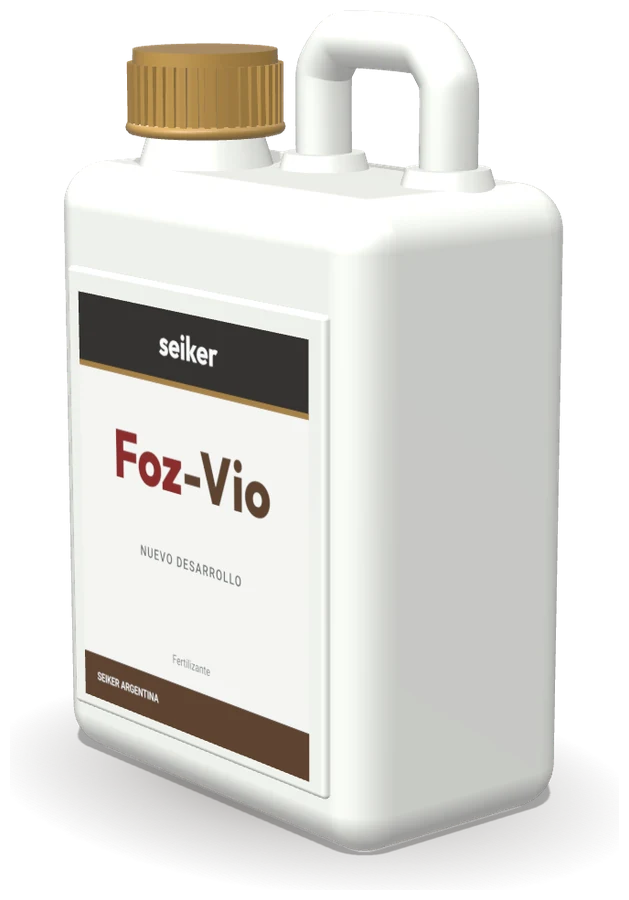
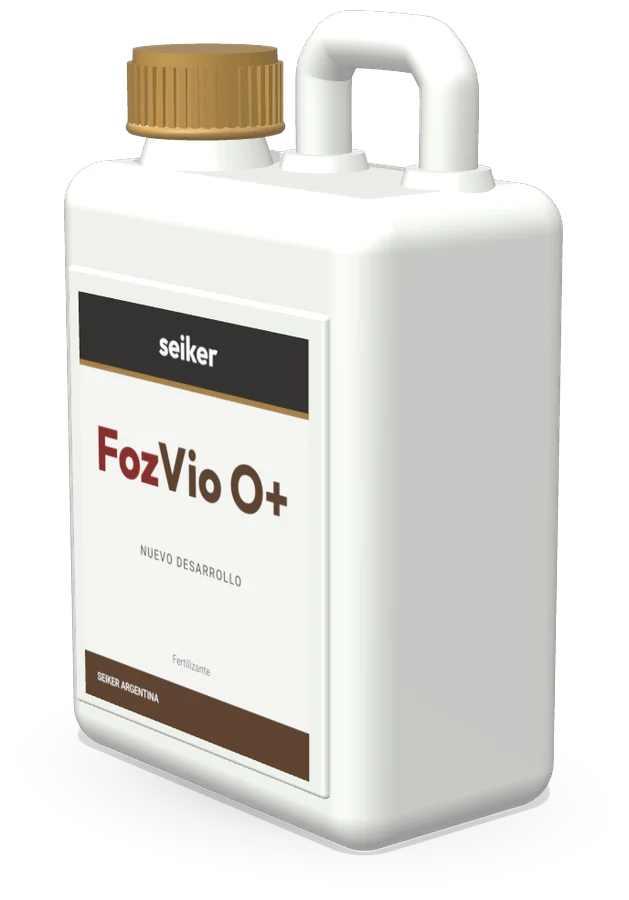
Nombres NitroVio O+ y FozVio O+ (antes Nitro-Vio y Foz-Vio)
- Catálogo, páginas, título de Fertilizantes y LEEME con los nombres nuevos.
- marca(): Nitro-Sol/Foz-Sol con guion y NitroVio O+/FozVio O+ juntos, en dos colores.
- El buscador también encuentra por id (nitro-vio, foz vio).
- Envases 3D de NitroVio O+ y FozVio O+ con la etiqueta nueva.
- Los ids y URLs (producto.html?id=nitro-vio) no cambian.

Claude-Session: https://claude.ai/code/session_01EZ6SwW7W8GjG9a1CT8ryKt

Changed region(s): [[0.1208, 0.8089, 0.876, 0.9644], [0.151, 0.4667, 0.4531, 0.5911]]

diff --git a/nueva-web/fertilizantes.html b/nueva-web/fertilizantes.html
@@ -3,7 +3,7 @@
 <head>
 <meta charset="UTF-8" />
 <meta name="viewport" content="width=device-width, initial-scale=1.0" />
-<title>Fertilizantes Nitro-Sol, Nitro-Vio, Foz-Sol y Foz-Vio | Seiker</title>
+<title>Fertilizantes Nitro-Sol, NitroVio O+, Foz-Sol y FozVio O+ | Seiker</title>
 <meta name="description" content="Fertilizantes Nitro-Sol y Foz-Sol: nitrógeno, fósforo, azufre, zinc quelado, boro y base orgánica. Mínima volatilización y disponibilidad inmediata." />
 <meta name="theme-color" content="#27221f" />
 <link rel="icon" type="image/png" href="assets/img/favicon.png" />
@@ -11,13 +11,13 @@
 <meta property="og:type" content="website" />
 <meta property="og:locale" content="es_AR" />
 <meta property="og:site_name" content="Seiker" />
-<meta property="og:title" content="Fertilizantes Nitro-Sol, Nitro-Vio, Foz-Sol y Foz-Vio | Seiker" />
+<meta property="og:title" content="Fertilizantes Nitro-Sol, NitroVio O+, Foz-Sol y FozVio O+ | Seiker" />
 <meta property="og:description" content="Fertilizantes Nitro-Sol y Foz-Sol: nitrógeno, fósforo, azufre, zinc quelado, boro y base orgánica. Mínima volatilización y disponibilidad inmediata." />
 <meta property="og:image" content="assets/img/campo.webp" />
 <link rel="preconnect" href="https://fonts.googleapis.com" />
 <link rel="preconnect" href="https://fonts.gstatic.com" crossorigin />
 <link href="https://fonts.googleapis.com/css2?family=Outfit:wght@400;500;600;700;800&family=Roboto:wght@400;500;700&family=IBM+Plex+Mono:wght@500;600&display=swap" rel="stylesheet" />
-<link rel="stylesheet" href="assets/css/estilos.css?v=20261125e" />
+<link rel="stylesheet" href="assets/css/estilos.css?v=20261126a" />
 </head>
 <body data-page="fertilizantes">
 
@@ -32,7 +32,7 @@
       <nav class="crumbs" aria-label="Ruta"><ol><li><a href="index.html">Inicio</a></li><li><a href="productos.html">Productos</a></li><li aria-current="page">Fertilizantes</li></ol></nav>
       <p class="eyebrow">Productos y soluciones</p>
       <h1 class="h1">Fertilizantes</h1>
-      <p>Nitro-Sol y Foz-Sol con nitrógeno, fósforo, azufre, zinc y boro; Nitro-Vio, de base orgánica, y el nuevo Foz-Vio. Formulaciones para distintos momentos del cultivo, con mínima volatilización y disponibilidad inmediata.</p>
+      <p>Nitro-Sol y Foz-Sol con nitrógeno, fósforo, azufre, zinc y boro; NitroVio O+, de base orgánica, y el nuevo FozVio O+. Formulaciones para distintos momentos del cultivo, con mínima volatilización y disponibilidad inmediata.</p>
     </div>
     <div class="banner-art banner-art--bidones" aria-hidden="true">
       <span data-envase="nitro-vio"></span>
@@ -57,7 +57,7 @@
       <div class="sec-h sec-h--row rv">
         <div>
           <p class="eyebrow">Portafolio</p>
-          <h2 class="h2"><span class="mkw"><span class="mk mk-nitro">Nitro</span><span class="mk mk-sol">-Sol</span></span>, <span class="mkw"><span class="mk mk-nitro">Nitro</span><span class="mk mk-vio">-Vio</span></span>, <span class="mkw"><span class="mk mk-foz">Foz</span><span class="mk mk-sol">-Sol</span></span> y <span class="mkw"><span class="mk mk-foz">Foz</span><span class="mk mk-vio">-Vio</span></span></h2>
+          <h2 class="h2"><span class="mkw"><span class="mk mk-nitro">Nitro</span><span class="mk mk-sol">-Sol</span></span>, <span class="mkw"><span class="mk mk-nitro">Nitro</span><span class="mk mk-vio mk-junto">Vio O+</span></span>, <span class="mkw"><span class="mk mk-foz">Foz</span><span class="mk mk-sol">-Sol</span></span> y <span class="mkw"><span class="mk mk-foz">Foz</span><span class="mk mk-vio mk-junto">Vio O+</span></span></h2>
         </div>
         <a class="lnk" href="productos.html?linea=fertilizantes">Abrir en el buscador <i data-ico="flecha"></i></a>
       </div>
@@ -103,9 +103,9 @@
 
 <!-- Scripts clásicos con defer, en orden de dependencia. Sin módulos ES:
      así el sitio funciona abriendo el archivo directo o desde cualquier hosting. -->
-<script defer src="assets/js/config.js?v=20261125e"></script>
-<script defer src="assets/js/catalogo.js?v=20261125e"></script>
-<script defer src="assets/js/ilustraciones.js?v=20261125e"></script>
-<script defer src="assets/js/sitio.js?v=20261125e"></script>
+<script defer src="assets/js/config.js?v=20261126a"></script>
+<script defer src="assets/js/catalogo.js?v=20261126a"></script>
+<script defer src="assets/js/ilustraciones.js?v=20261126a"></script>
+<script defer src="assets/js/sitio.js?v=20261126a"></script>
 </body>
 </html>

diff --git a/nueva-web/agronomia.html b/nueva-web/agronomia.html
@@ -17,7 +17,7 @@
 <link rel="preconnect" href="https://fonts.googleapis.com" />
 <link rel="preconnect" href="https://fonts.gstatic.com" crossorigin />
 <link href="https://fonts.googleapis.com/css2?family=Outfit:wght@400;500;600;700;800&family=Roboto:wght@400;500;700&family=IBM+Plex+Mono:wght@500;600&display=swap" rel="stylesheet" />
-<link rel="stylesheet" href="assets/css/estilos.css?v=20261125e" />
+<link rel="stylesheet" href="assets/css/estilos.css?v=20261126a" />
 </head>
 <body data-page="agronomia">
 
@@ -43,7 +43,7 @@
         <span class="tag">Nutrición</span>
         <h2 class="h2" style="margin-top:14px">Fertilización líquida: por qué importa la volatilización</h2>
         <p>Cuando el nitrógeno se volatiliza, una parte de lo que se aplicó se pierde antes de llegar al cultivo. La línea Nitro-Sol está formulada para minimizar esa pérdida y dejar los nutrientes disponibles de inmediato.</p>
-        <p>Nitro-Vio combina nutrientes orgánicos y sales convencionales: su bajo tamaño molecular permite una incorporación inmediata al suelo y reduce la volatilización. Por vía foliar, NITROPLUS 18 —nitrógeno amínico y calcio— elimina las pérdidas por volatilización y lixiviación.</p>
+        <p>NitroVio O+ combina nutrientes orgánicos y sales convencionales: su bajo tamaño molecular permite una incorporación inmediata al suelo y reduce la volatilización. Por vía foliar, NITROPLUS 18 —nitrógeno amínico y calcio— elimina las pérdidas por volatilización y lixiviación.</p>
         <a class="lnk" href="fertilizantes.html">Ver fertilizantes <i data-ico="flecha"></i></a>
       </article>
 
@@ -103,7 +103,7 @@
       </div>
       <div class="faq rv">
         <details><summary>¿Qué dosis de Nitro-Sol se recomienda?</summary>
-          <div><p>Para Nitro-Sol, Nitro-Sol Zn y Nitro-Sol B la dosis recomendada es de 100 a 300 l/ha según el cultivo. Foz-Sol va de 90 a 180 l/ha en cereales y oleaginosas y de 60 a 120 l/ha en pasturas. Para Nitro-Vio la dosis se define según el cultivo, su estado y el análisis de suelo: consultanos y lo vemos con vos.</p></div></details>
+          <div><p>Para Nitro-Sol, Nitro-Sol Zn y Nitro-Sol B la dosis recomendada es de 100 a 300 l/ha según el cultivo. Foz-Sol va de 90 a 180 l/ha en cereales y oleaginosas y de 60 a 120 l/ha en pasturas. Para NitroVio O+ la dosis se define según el cultivo, su estado y el análisis de suelo: consultanos y lo vemos con vos.</p></div></details>
         <details><summary>¿Se pueden aplicar por fertirriego?</summary>
           <div><p>Nitro-Sol es apto para fertirriego y para aplicaciones motrices. NITROPLUS 18 es de aplicación foliar. Para el resto de la línea, consultá con nuestro equipo agronómico según tu sistema de aplicación.</p></div></details>
         <details><summary>¿Cómo llegan los productos al campo?</summary>
@@ -133,9 +133,9 @@
 
 <!-- Scripts clásicos con defer, en orden de dependencia. Sin módulos ES:
      así el sitio funciona abriendo el archivo directo o desde cualquier hosting. -->
-<script defer src="assets/js/config.js?v=20261125e"></script>
-<script defer src="assets/js/catalogo.js?v=20261125e"></script>
-<script defer src="assets/js/ilustraciones.js?v=20261125e"></script>
-<script defer src="assets/js/sitio.js?v=20261125e"></script>
+<script defer src="assets/js/config.js?v=20261126a"></script>
+<script defer src="assets/js/catalogo.js?v=20261126a"></script>
+<script defer src="assets/js/ilustraciones.js?v=20261126a"></script>
+<script defer src="assets/js/sitio.js?v=20261126a"></script>
 </body>
 </html>

diff --git a/nueva-web/assets/js/catalogo.js b/nueva-web/assets/js/catalogo.js
@@ -41,7 +41,7 @@
       pagina: "fertilizantes.html",   // si no tiene página propia, se usa linea.html?id=...
       envase: "bidon",                // dibujo por defecto: "bidon", "bolsa" o "caudalimetro"
       imagen: "assets/img/campo-girasol.webp",  // foto de la tarjeta y del encabezado de la línea
-      resumen: "Nitro-Sol, Nitro-Vio, Foz-Sol y Foz-Vio: nitrógeno, fósforo, azufre, zinc y boro, también de base orgánica. Mínima volatilización, disponibilidad inmediata y logística con camiones propios hasta su lote.",
+      resumen: "Nitro-Sol, NitroVio O+, Foz-Sol y FozVio O+: nitrógeno, fósforo, azufre, zinc y boro, también de base orgánica. Mínima volatilización, disponibilidad inmediata y logística con camiones propios hasta su lote.",
       iconos: ["hoja", "gota", "camion", "persona"],
       beneficios: [
         ["Mínima volatilización", "Formulaciones pensadas para que el nitrógeno quede en el lote y no se pierda en el aire."],
@@ -243,13 +243,13 @@
     {
       id: "nitro-vio",
       linea: "fertilizantes",
-      nombre: "Nitro-Vio",
+      nombre: "NitroVio O+",
       antes: "NITROMIX PLUS",
       bajada: "Base orgánica",
       tipo: "Fertilizante líquido orgánico",
       resumen: "Combinación de nutrientes orgánicos y sales convencionales. Alta eficiencia por bajo tamaño molecular: incorporación inmediata al suelo y reducción de la volatilización.",
       descripcion: [
-        "Nitro-Vio combina nutrientes de origen orgánico con sales convencionales.",
+        "NitroVio O+ combina nutrientes de origen orgánico con sales convencionales.",
         "Su bajo tamaño molecular le da alta eficiencia: se incorpora de inmediato al suelo y reduce la volatilización."
       ],
       composicion: [["N equiv.", "24%"], ["P equiv.", "9,5%"], ["M.O.", "36%"]],
@@ -331,12 +331,12 @@
       /* FICHA PROVISORIA: falta definir composición, dosis y cultivos */
       id: "foz-vio",
       linea: "fertilizantes",
-      nombre: "Foz-Vio",
+      nombre: "FozVio O+",
       bajada: "Próximamente",
       tipo: "Fertilizante",
       resumen: "Nuevo desarrollo de la familia Vio. Estamos preparando su ficha técnica: consultanos por composición, dosis y disponibilidad.",
       descripcion: [
-        "Foz-Vio es un nuevo desarrollo de la familia Vio de Seiker.",
+        "FozVio O+ es un nuevo desarrollo de la familia Vio de Seiker.",
         "Estamos terminando su ficha técnica. Mientras tanto, escribinos y un asesor te cuenta composición, dosis recomendada y disponibilidad."
       ],
       composicion: [],

diff --git a/nueva-web/assets/js/sitio.js b/nueva-web/assets/js/sitio.js
@@ -50,12 +50,14 @@
     }
     return null;
   }
-  /* Marcas bicolor: Nitro (azul) / Foz (rojo) + Sol (negro) / Vio (marrón).
+  /* Marcas bicolor: Nitro (azul) / Foz (rojo) + Sol (negro) / Vio O+ (marrón).
+     Nitro-Sol y Foz-Sol llevan guion; NitroVio O+ y FozVio O+, no.
      Recibe texto ya escapado y devuelve HTML. En fondos oscuros, el CSS
      hace que hereden el color del texto. */
   function marca(html) {
-    return String(html).replace(/\b(Nitro|Foz)-(Sol|Vio)\b/gi, function (m, a, b) {
-      return '<span class="mkw"><span class="mk mk-' + a.toLowerCase() + '">' + a + '</span><span class="mk mk-' + b.toLowerCase() + '">-' + b + "</span></span>";
+    return String(html).replace(/\b(Nitro|Foz)(-Sol\b|Vio O\+)/g, function (m, a, b) {
+      return '<span class="mkw"><span class="mk mk-' + a.toLowerCase() + '">' + a + '</span><span class="mk mk-' +
+        (b.charAt(0) === "-" ? "sol" : "vio mk-junto") + '">' + b + "</span></span>";
     });
   }
   function nombreHTML(p) { return marca(esc(p.nombre)); }
@@ -442,7 +444,7 @@
       indice.push({
         tipo: "Producto", titulo: p.nombre + " — " + p.bajada, url: urlProducto(p),
         texto: p.resumen,
-        busca: norm([p.nombre, p.antes || "", p.bajada, p.tipo, p.resumen, (p.descripcion || []).join(" "), specs,
+        busca: norm([p.nombre, p.id, p.id.replace(/-/g, " "), p.antes || "", p.bajada, p.tipo, p.resumen, (p.descripcion || []).join(" "), specs,
           (p.cultivos || []).join(" "), (p.aplicacion || []).join(" "), ben, guia, notas,
           p.comoActua ? p.comoActua.titulo + " " + p.comoActua.texto : "",
           (p.usos || []).join(" "), l.nombre].join(" "))
@@ -767,7 +769,7 @@
         if (estado.cultivos.length && !estado.cultivos.some(function (c) { return (p.cultivos || []).indexOf(c) >= 0; })) return false;
         if (estado.aplic.length && !estado.aplic.some(function (c) { return (p.aplicacion || []).indexOf(c) >= 0; })) return false;
         if (ws.length) {
-          var t = norm([p.nombre, p.antes || "", p.bajada, p.tipo, p.resumen, (p.cultivos || []).join(" "),
+          var t = norm([p.nombre, p.id, p.id.replace(/-/g, " "), p.antes || "", p.bajada, p.tipo, p.resumen, (p.cultivos || []).join(" "),
             (p.composicion || []).map(function (c) { return c.join(" "); }).join(" "),
             (p.aplicacion || []).join(" ")].join(" "));
           if (!ws.every(function (w) { return t.indexOf(w) >= 0; })) return false;

diff --git a/nueva-web/caudalimetros.html b/nueva-web/caudalimetros.html
@@ -17,7 +17,7 @@
 <link rel="preconnect" href="https://fonts.googleapis.com" />
 <link rel="preconnect" href="https://fonts.gstatic.com" crossorigin />
 <link href="https://fonts.googleapis.com/css2?family=Outfit:wght@400;500;600;700;800&family=Roboto:wght@400;500;700&family=IBM+Plex+Mono:wght@500;600&display=swap" rel="stylesheet" />
-<link rel="stylesheet" href="assets/css/estilos.css?v=20261125e" />
+<link rel="stylesheet" href="assets/css/estilos.css?v=20261126a" />
 </head>
 <body data-page="caudalimetros">
 
@@ -163,10 +163,10 @@
 
 <!-- Scripts clásicos con defer, en orden de dependencia. Sin módulos ES:
      así el sitio funciona abriendo el archivo directo o desde cualquier hosting. -->
-<script defer src="assets/js/config.js?v=20261125e"></script>
-<script defer src="assets/js/catalogo.js?v=20261125e"></script>
-<script defer src="assets/js/ilustraciones.js?v=20261125e"></script>
-<script defer src="assets/js/sitio.js?v=20261125e"></script>
-<script defer src="assets/js/simulador.js?v=20261125e"></script>
+<script defer src="assets/js/config.js?v=20261126a"></script>
+<script defer src="assets/js/catalogo.js?v=20261126a"></script>
+<script defer src="assets/js/ilustraciones.js?v=20261126a"></script>
+<script defer src="assets/js/sitio.js?v=20261126a"></script>
+<script defer src="assets/js/simulador.js?v=20261126a"></script>
 </body>
 </html>

diff --git a/nueva-web/privacidad.html b/nueva-web/privacidad.html
@@ -17,7 +17,7 @@
 <link rel="preconnect" href="https://fonts.googleapis.com" />
 <link rel="preconnect" href="https://fonts.gstatic.com" crossorigin />
 <link href="https://fonts.googleapis.com/css2?family=Outfit:wght@400;500;600;700;800&family=Roboto:wght@400;500;700&family=IBM+Plex+Mono:wght@500;600&display=swap" rel="stylesheet" />
-<link rel="stylesheet" href="assets/css/estilos.css?v=20261125e" />
+<link rel="stylesheet" href="assets/css/estilos.css?v=20261126a" />
 </head>
 <body data-page="privacidad">
 
@@ -81,9 +81,9 @@
 
 <!-- Scripts clásicos con defer, en orden de dependencia. Sin módulos ES:
      así el sitio funciona abriendo el archivo directo o desde cualquier hosting. -->
-<script defer src="assets/js/config.js?v=20261125e"></script>
-<script defer src="assets/js/catalogo.js?v=20261125e"></script>
-<script defer src="assets/js/ilustraciones.js?v=20261125e"></script>
-<script defer src="assets/js/sitio.js?v=20261125e"></script>
+<script defer src="assets/js/config.js?v=20261126a"></script>
+<script defer src="assets/js/catalogo.js?v=20261126a"></script>
+<script defer src="assets/js/ilustraciones.js?v=20261126a"></script>
+<script defer src="assets/js/sitio.js?v=20261126a"></script>
 </body>
 </html>

diff --git a/nueva-web/productos.html b/nueva-web/productos.html
@@ -17,7 +17,7 @@
 <link rel="preconnect" href="https://fonts.googleapis.com" />
 <link rel="preconnect" href="https://fonts.gstatic.com" crossorigin />
 <link href="https://fonts.googleapis.com/css2?family=Outfit:wght@400;500;600;700;800&family=Roboto:wght@400;500;700&family=IBM+Plex+Mono:wght@500;600&display=swap" rel="stylesheet" />
-<link rel="stylesheet" href="assets/css/estilos.css?v=20261125e" />
+<link rel="stylesheet" href="assets/css/estilos.css?v=20261126a" />
 </head>
 <body data-page="productos">
 
@@ -70,9 +70,9 @@
 
 <!-- Scripts clásicos con defer, en orden de dependencia. Sin módulos ES:
      así el sitio funciona abriendo el archivo directo o desde cualquier hosting. -->
-<script defer src="assets/js/config.js?v=20261125e"></script>
-<script defer src="assets/js/catalogo.js?v=20261125e"></script>
-<script defer src="assets/js/ilustraciones.js?v=20261125e"></script>
-<script defer src="assets/js/sitio.js?v=20261125e"></script>
+<script defer src="assets/js/config.js?v=20261126a"></script>
+<script defer src="assets/js/catalogo.js?v=20261126a"></script>
+<script defer src="assets/js/ilustraciones.js?v=20261126a"></script>
+<script defer src="assets/js/sitio.js?v=20261126a"></script>
 </body>
 </html>

diff --git a/nueva-web/contacto.html b/nueva-web/contacto.html
@@ -17,7 +17,7 @@
 <link rel="preconnect" href="https://fonts.googleapis.com" />
 <link rel="preconnect" href="https://fonts.gstatic.com" crossorigin />
 <link href="https://fonts.googleapis.com/css2?family=Outfit:wght@400;500;600;700;800&family=Roboto:wght@400;500;700&family=IBM+Plex+Mono:wght@500;600&display=swap" rel="stylesheet" />
-<link rel="stylesheet" href="assets/css/estilos.css?v=20261125e" />
+<link rel="stylesheet" href="assets/css/estilos.css?v=20261126a" />
 </head>
 <body data-page="contacto">
 
@@ -94,9 +94,9 @@
 
 <!-- Scripts clásicos con defer, en orden de dependencia. Sin módulos ES:
      así el sitio funciona abriendo el archivo directo o desde cualquier hosting. -->
-<script defer src="assets/js/config.js?v=20261125e"></script>
-<script defer src="assets/js/catalogo.js?v=20261125e"></script>
-<script defer src="assets/js/ilustraciones.js?v=20261125e"></script>
-<script defer src="assets/js/sitio.js?v=20261125e"></script>
+<script defer src="assets/js/config.js?v=20261126a"></script>
+<script defer src="assets/js/catalogo.js?v=20261126a"></script>
+<script defer src="assets/js/ilustraciones.js?v=20261126a"></script>
+<script defer src="assets/js/sitio.js?v=20261126a"></script>
 </body>
 </html>

diff --git a/nueva-web/index.html b/nueva-web/index.html
@@ -17,7 +17,7 @@
 <link rel="preconnect" href="https://fonts.googleapis.com" />
 <link rel="preconnect" href="https://fonts.gstatic.com" crossorigin />
 <link href="https://fonts.googleapis.com/css2?family=Outfit:wght@400;500;600;700;800&family=Roboto:wght@400;500;700&family=IBM+Plex+Mono:wght@500;600&display=swap" rel="stylesheet" />
-<link rel="stylesheet" href="assets/css/estilos.css?v=20261125e" />
+<link rel="stylesheet" href="assets/css/estilos.css?v=20261126a" />
 </head>
 <body data-page="inicio">
 
@@ -264,9 +264,9 @@
 
 <!-- Scripts clásicos con defer, en orden de dependencia. Sin módulos ES:
      así el sitio funciona abriendo el archivo directo o desde cualquier hosting. -->
-<script defer src="assets/js/config.js?v=20261125e"></script>
-<script defer src="assets/js/catalogo.js?v=20261125e"></script>
-<script defer src="assets/js/ilustraciones.js?v=20261125e"></script>
-<script defer src="assets/js/sitio.js?v=20261125e"></script>
+<script defer src="assets/js/config.js?v=20261126a"></script>
+<script defer src="assets/js/catalogo.js?v=20261126a"></script>
+<script defer src="assets/js/ilustraciones.js?v=20261126a"></script>
+<script defer src="assets/js/sitio.js?v=20261126a"></script>
 </body>
 </html>

diff --git a/nueva-web/producto.html b/nueva-web/producto.html
@@ -17,7 +17,7 @@
 <link rel="preconnect" href="https://fonts.googleapis.com" />
 <link rel="preconnect" href="https://fonts.gstatic.com" crossorigin />
 <link href="https://fonts.googleapis.com/css2?family=Outfit:wght@400;500;600;700;800&family=Roboto:wght@400;500;700&family=IBM+Plex+Mono:wght@500;600&display=swap" rel="stylesheet" />
-<link rel="stylesheet" href="assets/css/estilos.css?v=20261125e" />
+<link rel="stylesheet" href="assets/css/estilos.css?v=20261126a" />
 </head>
 <body data-page="producto">
 
@@ -35,9 +35,9 @@
 
 <!-- Scripts clásicos con defer, en orden de dependencia. Sin módulos ES:
      así el sitio funciona abriendo el archivo directo o desde cualquier hosting. -->
-<script defer src="assets/js/config.js?v=20261125e"></script>
-<script defer src="assets/js/catalogo.js?v=20261125e"></script>
-<script defer src="assets/js/ilustraciones.js?v=20261125e"></script>
-<script defer src="assets/js/sitio.js?v=20261125e"></script>
+<script defer src="assets/js/config.js?v=20261126a"></script>
+<script defer src="assets/js/catalogo.js?v=20261126a"></script>
+<script defer src="assets/js/ilustraciones.js?v=20261126a"></script>
+<script defer src="assets/js/sitio.js?v=20261126a"></script>
 </body>
 </html>

diff --git a/nueva-web/quienes-somos.html b/nueva-web/quienes-somos.html
@@ -17,7 +17,7 @@
 <link rel="preconnect" href="https://fonts.googleapis.com" />
 <link rel="preconnect" href="https://fonts.gstatic.com" crossorigin />
 <link href="https://fonts.googleapis.com/css2?family=Outfit:wght@400;500;600;700;800&family=Roboto:wght@400;500;700&family=IBM+Plex+Mono:wght@500;600&display=swap" rel="stylesheet" />
-<link rel="stylesheet" href="assets/css/estilos.css?v=20261125e" />
+<link rel="stylesheet" href="assets/css/estilos.css?v=20261126a" />
 </head>
 <body data-page="nosotros">
 
@@ -91,9 +91,9 @@
 
 <!-- Scripts clásicos con defer, en orden de dependencia. Sin módulos ES:
      así el sitio funciona abriendo el archivo directo o desde cualquier hosting. -->
-<script defer src="assets/js/config.js?v=20261125e"></script>
-<script defer src="assets/js/catalogo.js?v=20261125e"></script>
-<script defer src="assets/js/ilustraciones.js?v=20261125e"></script>
-<script defer src="assets/js/sitio.js?v=20261125e"></script>
+<script defer src="assets/js/config.js?v=20261126a"></script>
+<script defer src="assets/js/catalogo.js?v=20261126a"></script>
+<script defer src="assets/js/ilustraciones.js?v=20261126a"></script>
+<script defer src="assets/js/sitio.js?v=20261126a"></script>
 </body>
 </html>

diff --git a/nueva-web/terminos.html b/nueva-web/terminos.html
@@ -17,7 +17,7 @@
 <link rel="preconnect" href="https://fonts.googleapis.com" />
 <link rel="preconnect" href="https://fonts.gstatic.com" crossorigin />
 <link href="https://fonts.googleapis.com/css2?family=Outfit:wght@400;500;600;700;800&family=Roboto:wght@400;500;700&family=IBM+Plex+Mono:wght@500;600&display=swap" rel="stylesheet" />
-<link rel="stylesheet" href="assets/css/estilos.css?v=20261125e" />
+<link rel="stylesheet" href="assets/css/estilos.css?v=20261126a" />
 </head>
 <body data-page="terminos">
 
@@ -87,9 +87,9 @@
 
 <!-- Scripts clásicos con defer, en orden de dependencia. Sin módulos ES:
      así el sitio funciona abriendo el archivo directo o desde cualquier hosting. -->
-<script defer src="assets/js/config.js?v=20261125e"></script>
-<script defer src="assets/js/catalogo.js?v=20261125e"></script>
-<script defer src="assets/js/ilustraciones.js?v=20261125e"></script>
-<script defer src="assets/js/sitio.js?v=20261125e"></script>
+<script defer src="assets/js/config.js?v=20261126a"></script>
+<script defer src="assets/js/catalogo.js?v=20261126a"></script>
+<script defer src="assets/js/ilustraciones.js?v=20261126a"></script>
+<script defer src="assets/js/sitio.js?v=20261126a"></script>
 </body>
 </html>
